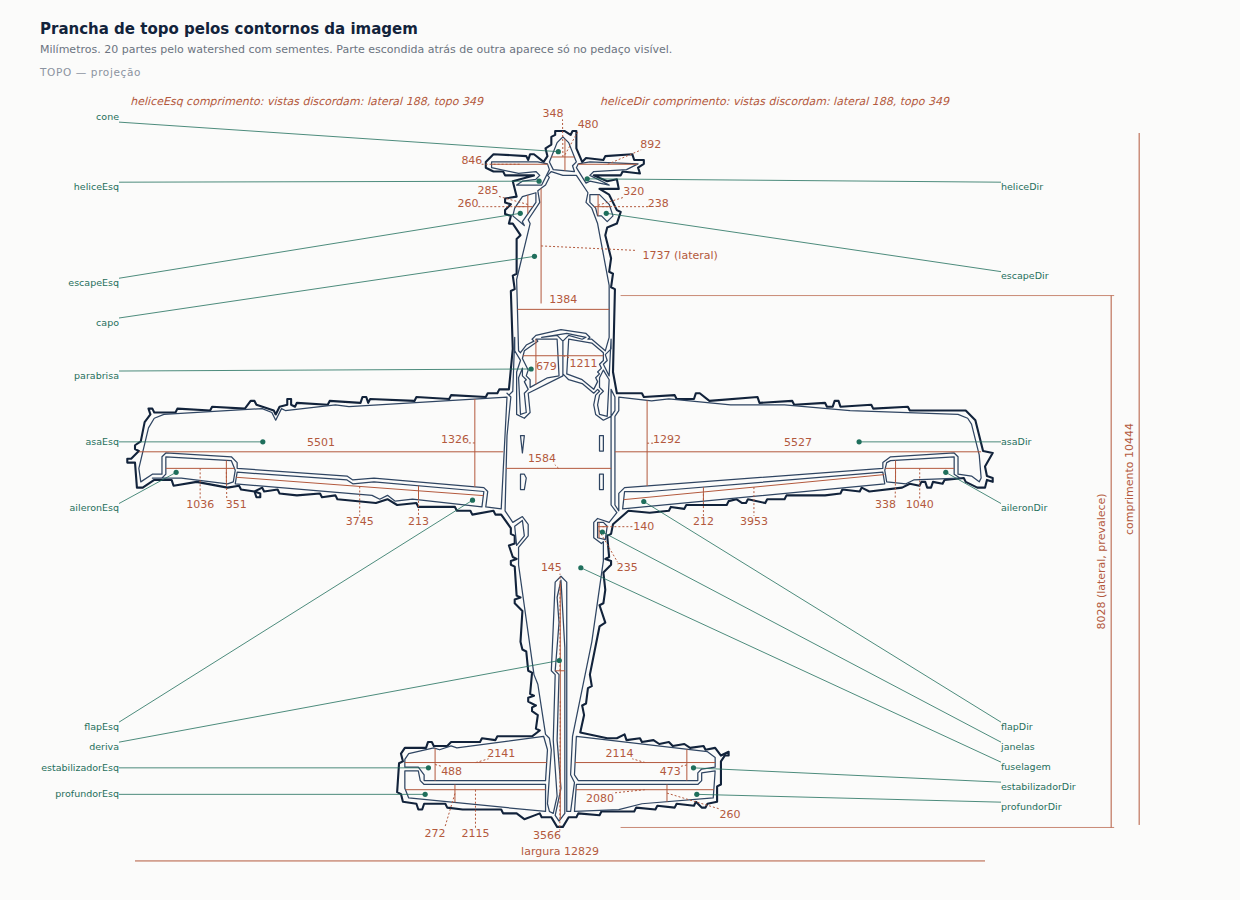
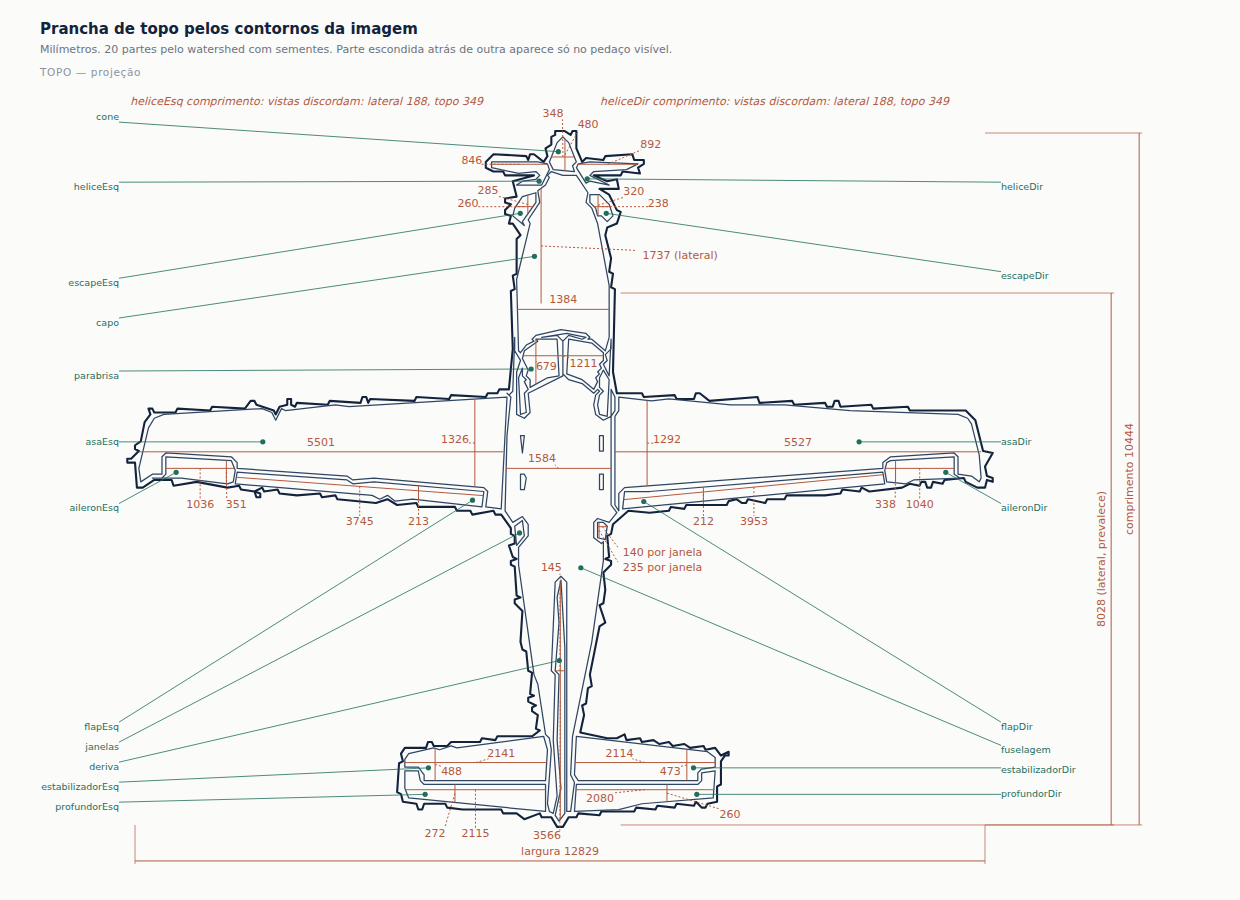
Prancha de topo do avião: cota das janelas com rótulo por janela
Claude-Session: https://claude.ai/code/session_015i1y8CrgTgEfwGG2HEX8g8

diff --git a/docs/mecanifica/banco-de-provas/aviao-2026-10-11/referencias/topo.prancha.pacote/roteiro.md b/docs/mecanifica/banco-de-provas/aviao-2026-10-11/referencias/topo.prancha.pacote/roteiro.md
@@ -70,7 +70,15 @@ Abra o alvo (/home/user/nos-mecanifica/docs/mecanifica/banco-de-provas/aviao-202
 - nome: "flapEsq" fica na coluna da esquerda. A chamada termina dentro de flapEsq, e não numa vizinha?
 - linhas livres: a chamada e as cotas de flapEsq não cruzam outra linha nem passam sobre número ou nome?
 
-## Etapa 10 — deriva
+## Etapa 10 — janelas
+
+- cotas esperadas: largura (medida aqui) e comprimento (medida aqui). Cobre só estas duas; cota em falta é `cota` com sentido `faltando`.
+- largura: cota 140 por janela, com o rótulo "por janela": o número vale só para o que o rótulo diz, e não para a parte inteira. A linha atravessa a seção que o modelador precisa, dentro de janelas?
+- comprimento: cota 235 por janela, com o rótulo "por janela": o número vale só para o que o rótulo diz, e não para a parte inteira. A linha mede janelas de ponta a ponta na vertical, sem pegar parte vizinha?
+- nome: "janelas" fica na coluna da esquerda. A chamada termina dentro de janelas, e não numa vizinha?
+- linhas livres: a chamada e as cotas de janelas não cruzam outra linha nem passam sobre número ou nome?
+
+## Etapa 11 — deriva
 
 - cotas esperadas: largura (medida aqui) e comprimento (medida aqui). Cobre só estas duas; cota em falta é `cota` com sentido `faltando`.
 - largura: cota 145. A linha atravessa a seção que o modelador precisa, dentro de deriva?
@@ -78,7 +86,7 @@ Abra o alvo (/home/user/nos-mecanifica/docs/mecanifica/banco-de-provas/aviao-202
 - nome: "deriva" fica na coluna da esquerda. A chamada termina dentro de deriva, e não numa vizinha?
 - linhas livres: a chamada e as cotas de deriva não cruzam outra linha nem passam sobre número ou nome?
 
-## Etapa 11 — estabilizadorEsq
+## Etapa 12 — estabilizadorEsq
 
 - cotas esperadas: largura (medida aqui) e comprimento (medida aqui). Cobre só estas duas; cota em falta é `cota` com sentido `faltando`.
 - largura: cota 2141. A linha atravessa a seção que o modelador precisa, dentro de estabilizadorEsq?
@@ -86,7 +94,7 @@ Abra o alvo (/home/user/nos-mecanifica/docs/mecanifica/banco-de-provas/aviao-202
 - nome: "estabilizadorEsq" fica na coluna da esquerda. A chamada termina dentro de estabilizadorEsq, e não numa vizinha?
 - linhas livres: a chamada e as cotas de estabilizadorEsq não cruzam outra linha nem passam sobre número ou nome?
 
-## Etapa 12 — profundorEsq
+## Etapa 13 — profundorEsq
 
 - cotas esperadas: largura (medida aqui) e comprimento (medida aqui). Cobre só estas duas; cota em falta é `cota` com sentido `faltando`.
 - largura: cota 2115. A linha atravessa a seção que o modelador precisa, dentro de profundorEsq?
@@ -94,7 +102,7 @@ Abra o alvo (/home/user/nos-mecanifica/docs/mecanifica/banco-de-provas/aviao-202
 - nome: "profundorEsq" fica na coluna da esquerda. A chamada termina dentro de profundorEsq, e não numa vizinha?
 - linhas livres: a chamada e as cotas de profundorEsq não cruzam outra linha nem passam sobre número ou nome?
 
-## Etapa 13 — heliceDir
+## Etapa 14 — heliceDir
 
 - cotas esperadas: largura (medida aqui) e comprimento (não medível: vistas discordam: lateral 188, topo 349). Cobre só estas duas; cota em falta é `cota` com sentido `faltando`.
 - largura: cota 892. A linha atravessa a seção que o modelador precisa, dentro de heliceDir?
@@ -102,7 +110,7 @@ Abra o alvo (/home/user/nos-mecanifica/docs/mecanifica/banco-de-provas/aviao-202
 - nome: "heliceDir" fica na coluna da direita. A chamada termina dentro de heliceDir, e não numa vizinha?
 - linhas livres: a chamada e as cotas de heliceDir não cruzam outra linha nem passam sobre número ou nome?
 
-## Etapa 14 — escapeDir
+## Etapa 15 — escapeDir
 
 - cotas esperadas: largura (medida aqui) e comprimento (medida aqui). Cobre só estas duas; cota em falta é `cota` com sentido `faltando`.
 - largura: cota 238. A linha atravessa a seção que o modelador precisa, dentro de escapeDir?
@@ -110,7 +118,7 @@ Abra o alvo (/home/user/nos-mecanifica/docs/mecanifica/banco-de-provas/aviao-202
 - nome: "escapeDir" fica na coluna da direita. A chamada termina dentro de escapeDir, e não numa vizinha?
 - linhas livres: a chamada e as cotas de escapeDir não cruzam outra linha nem passam sobre número ou nome?
 
-## Etapa 15 — asaDir
+## Etapa 16 — asaDir
 
 - cotas esperadas: largura (medida aqui) e comprimento (medida aqui). Cobre só estas duas; cota em falta é `cota` com sentido `faltando`.
 - largura: cota 5527. A linha atravessa a seção que o modelador precisa, dentro de asaDir?
@@ -118,7 +126,7 @@ Abra o alvo (/home/user/nos-mecanifica/docs/mecanifica/banco-de-provas/aviao-202
 - nome: "asaDir" fica na coluna da direita. A chamada termina dentro de asaDir, e não numa vizinha?
 - linhas livres: a chamada e as cotas de asaDir não cruzam outra linha nem passam sobre número ou nome?
 
-## Etapa 16 — aileronDir
+## Etapa 17 — aileronDir
 
 - cotas esperadas: largura (medida aqui) e comprimento (medida aqui). Cobre só estas duas; cota em falta é `cota` com sentido `faltando`.
 - largura: cota 1040. A linha atravessa a seção que o modelador precisa, dentro de aileronDir?
@@ -126,21 +134,13 @@ Abra o alvo (/home/user/nos-mecanifica/docs/mecanifica/banco-de-provas/aviao-202
 - nome: "aileronDir" fica na coluna da direita. A chamada termina dentro de aileronDir, e não numa vizinha?
 - linhas livres: a chamada e as cotas de aileronDir não cruzam outra linha nem passam sobre número ou nome?
 
-## Etapa 17 — flapDir
+## Etapa 18 — flapDir
 
 - cotas esperadas: largura (medida aqui) e comprimento (medida aqui). Cobre só estas duas; cota em falta é `cota` com sentido `faltando`.
 - largura: cota 3953. A linha atravessa a seção que o modelador precisa, dentro de flapDir?
 - comprimento: cota 212. A linha mede flapDir de ponta a ponta na vertical, sem pegar parte vizinha?
 - nome: "flapDir" fica na coluna da direita. A chamada termina dentro de flapDir, e não numa vizinha?
 - linhas livres: a chamada e as cotas de flapDir não cruzam outra linha nem passam sobre número ou nome?
-
-## Etapa 18 — janelas
-
-- cotas esperadas: largura (medida aqui) e comprimento (medida aqui). Cobre só estas duas; cota em falta é `cota` com sentido `faltando`.
-- largura: cota 140. A linha atravessa a seção que o modelador precisa, dentro de janelas?
-- comprimento: cota 235. A linha mede janelas de ponta a ponta na vertical, sem pegar parte vizinha?
-- nome: "janelas" fica na coluna da direita. A chamada termina dentro de janelas, e não numa vizinha?
-- linhas livres: a chamada e as cotas de janelas não cruzam outra linha nem passam sobre número ou nome?
 
 ## Etapa 19 — fuselagem
 
